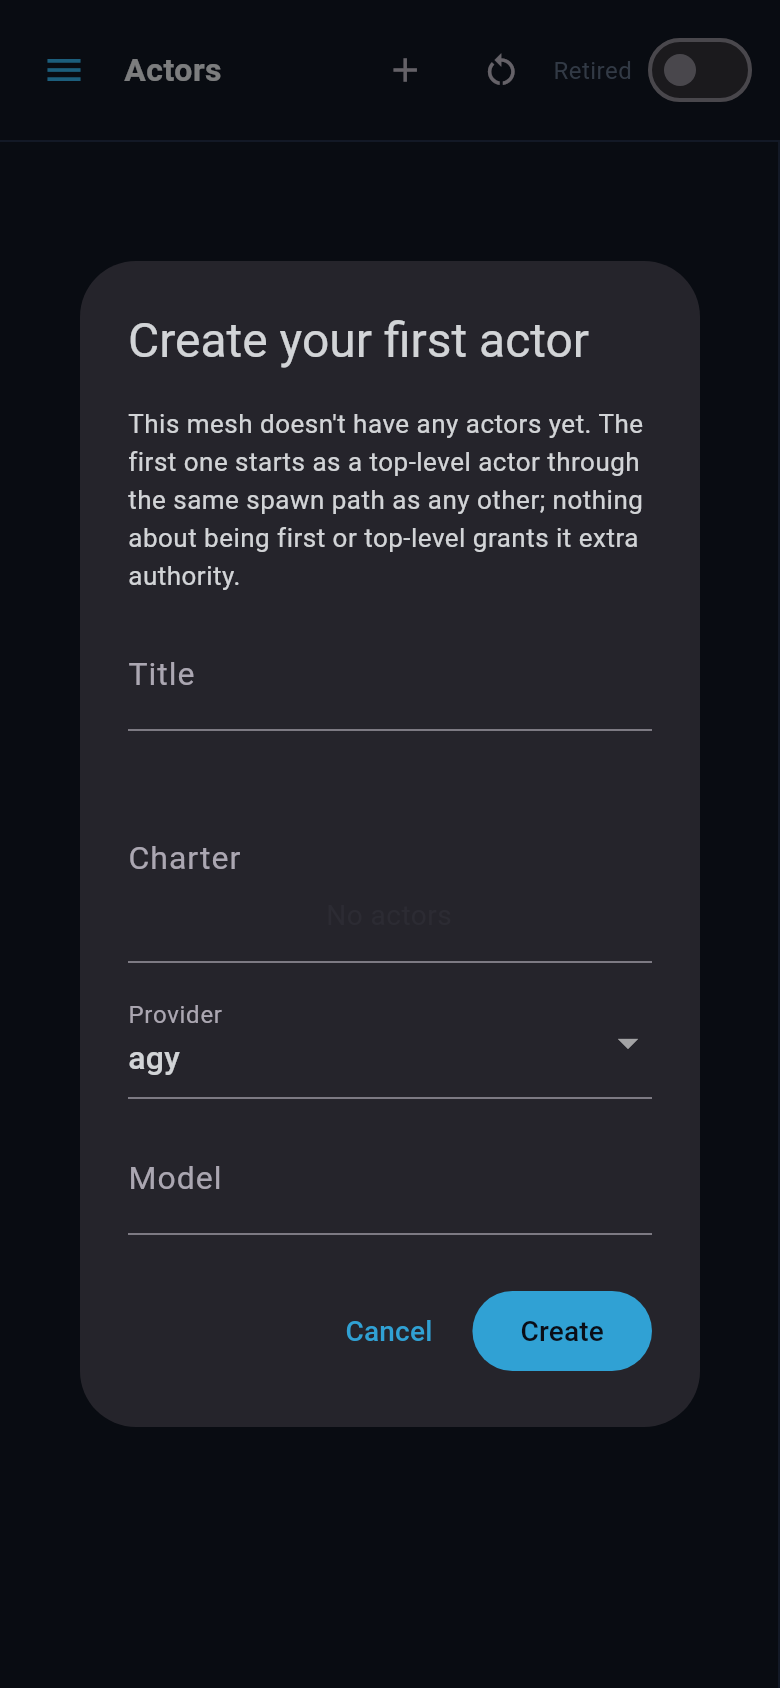
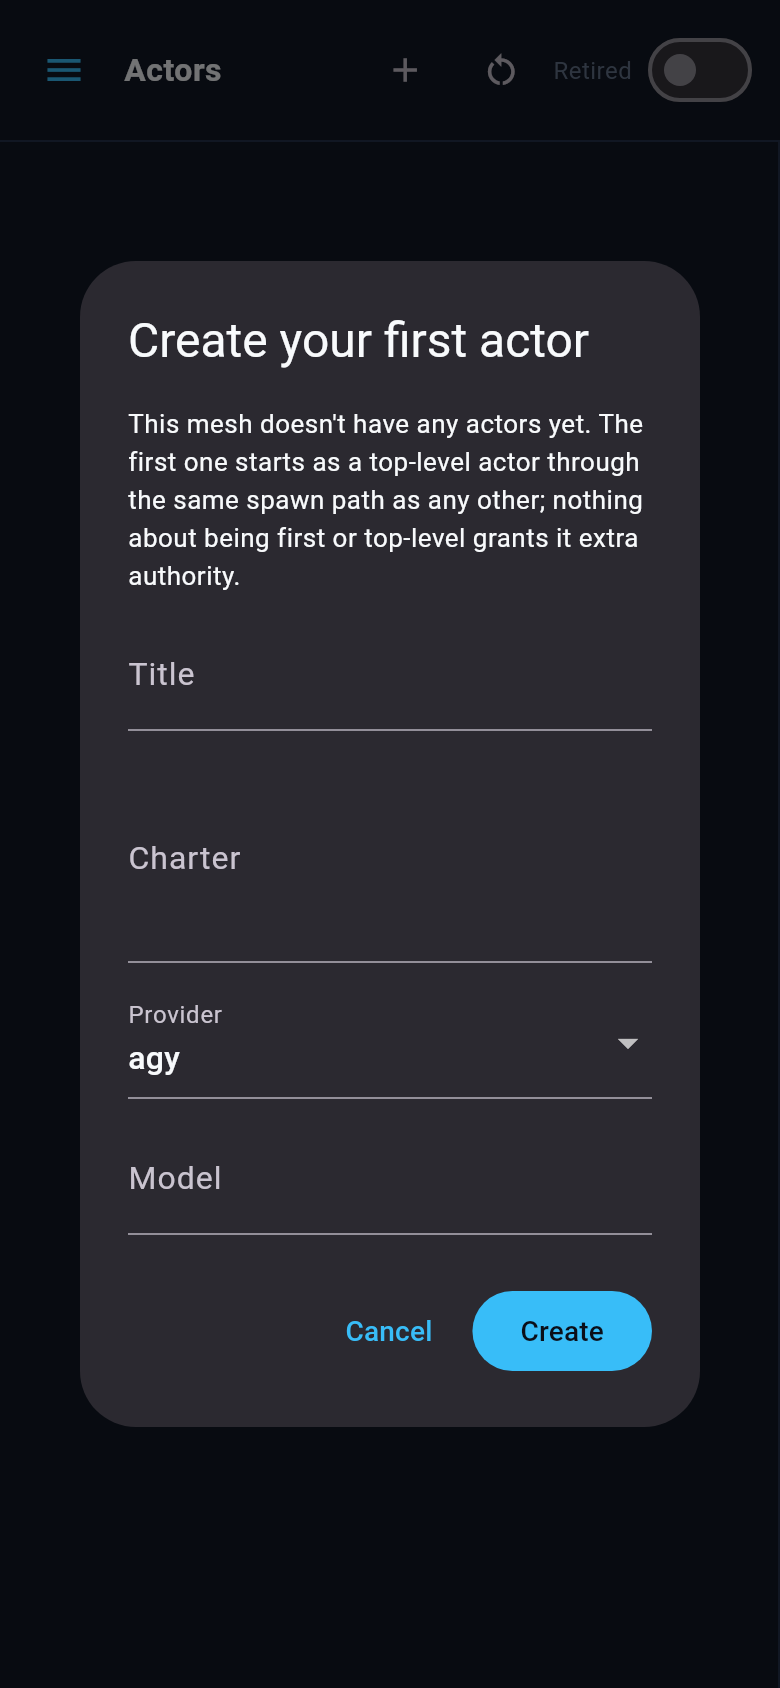
fix(dashboard): settle bootstrap modal entrance and clarify session dismissal (#1260)
- Settle dialog route transition before screenshot capture so the opaque
  dialog surface renders without background bleed-through.
- Clarify empty-mesh bootstrap dismissal: cancelling dismisses the modal
  for the session; drop the unneeded re-arm on non-empty actor snapshots.

diff --git a/packages/rusa/flutter_dashboard/test/first_actor_bootstrap_1260_test.dart b/packages/rusa/flutter_dashboard/test/first_actor_bootstrap_1260_test.dart
@@ -115,42 +115,29 @@ void main() {
     });
   });
 
-  testWidgets(
-    'cancelling dismisses the modal until actors exist, and an emptied mesh is offered again',
-    (tester) async {
-      await tester.runAsync(() async {
-        final api = FakeApi();
-        final store = await _startedStore(api);
+  testWidgets('cancelling dismisses the modal for the session', (
+    tester,
+  ) async {
+    await tester.runAsync(() async {
+      final api = FakeApi();
+      final store = await _startedStore(api);
 
-        await tester.pumpWidget(_harness(store));
-        await tester.pump(const Duration(milliseconds: 100));
-        expect(find.text('Create your first actor'), findsOneWidget);
+      await tester.pumpWidget(_harness(store));
+      await tester.pump(const Duration(milliseconds: 100));
+      expect(find.text('Create your first actor'), findsOneWidget);
 
-        await tester.tap(find.widgetWithText(TextButton, 'Cancel'));
-        await tester.pump(const Duration(milliseconds: 100));
-        expect(find.text('Create your first actor'), findsNothing);
+      await tester.tap(find.widgetWithText(TextButton, 'Cancel'));
+      await tester.pump(const Duration(milliseconds: 100));
+      expect(find.text('Create your first actor'), findsNothing);
 
-        // The mesh is still empty, but the dismissal holds: no re-offer.
-        await tester.pump(const Duration(milliseconds: 300));
-        expect(find.text('Create your first actor'), findsNothing);
-
-        // An actor appears (e.g. created elsewhere) and is then retired:
-        // the gate re-arms and the emptied mesh is offered again.
-        api.threadsResult = [makeThread('actor-1', created: 't0')];
-        await store.refreshThreads();
-        await tester.pump(const Duration(milliseconds: 100));
-        expect(find.text('Create your first actor'), findsNothing);
-
-        api.threadsResult = [];
-        await store.refreshThreads();
-        // The offer runs on the store's async stream delivery; give the real
-        // async zone a second turn before expecting the dialog.
-        await tester.pump(const Duration(milliseconds: 100));
-        await tester.pump(const Duration(milliseconds: 100));
-        expect(find.text('Create your first actor'), findsOneWidget);
-      });
-    },
-  );
+      // The mesh is still empty, and subsequent snapshots do not re-offer:
+      // dismissal holds for the session.
+      await store.refreshThreads();
+      await tester.pump(const Duration(milliseconds: 100));
+      await tester.pump(const Duration(milliseconds: 300));
+      expect(find.text('Create your first actor'), findsNothing);
+    });
+  });
 
   testWidgets('a retired-only mesh counts as non-empty and sees no modal', (
     tester,

diff --git a/packages/rusa/flutter_dashboard/lib/widgets/first_actor_bootstrap.dart b/packages/rusa/flutter_dashboard/lib/widgets/first_actor_bootstrap.dart
@@ -2,7 +2,6 @@ import 'dart:async';
 
 import 'package:flutter/widgets.dart';
 
-import '../models.dart';
 import '../store.dart';
 import 'actor_tree.dart';
 
@@ -22,8 +21,8 @@ const String kFirstActorDialogIntro =
 ///
 /// Once the first authoritative actor snapshot has landed and the mesh has no
 /// actors at all, offer the shared spawn dialog automatically. A non-empty
-/// mesh — including one whose only actors are retired — never sees it, and a
-/// mesh that empties after actors existed offers it again.
+/// mesh — including one whose only actors are retired — never sees it, and
+/// cancel dismisses for the session.
 ///
 /// Lives below [DashboardBody]'s views so every destination (Overview, Actors,
 /// …) gets the same behaviour, and only in the authenticated tree: the
@@ -56,20 +55,11 @@ class _FirstActorBootstrapState extends State<FirstActorBootstrap> {
     // post-frame callback because a dialog cannot be shown during build.
     _subs
       ..add(widget.store.actorsLoaded.listen((_) => _maybeOffer()))
-      ..add(widget.store.actorStates.listen(_onActors));
+      ..add(widget.store.actorStates.listen((_) => _maybeOffer()));
     WidgetsBinding.instance.addPostFrameCallback((_) {
       _framePainted = true;
       _maybeOffer();
     });
-  }
-
-  void _onActors(ActorStateSnapshot snapshot) {
-    // Any actor at all re-arms the gate: retiring the last actor later brings
-    // the modal back.
-    if (snapshot.actors.isNotEmpty && _dismissed) {
-      setState(() => _dismissed = false);
-    }
-    _maybeOffer();
   }
 
   Future<void> _maybeOffer() async {
@@ -87,9 +77,8 @@ class _FirstActorBootstrapState extends State<FirstActorBootstrap> {
         submitLabel: 'Create',
       );
       // A dismissal — cancel, barrier tap, or a failed spawn already reported
-      // as a snackbar — does not nag again while the mesh stays empty. The
-      // tree's spawn control remains available, and the gate re-arms once any
-      // actor exists.
+      // as a snackbar — does not nag again; cancel dismisses for the session.
+      // The tree's spawn control remains available.
       if (!created && mounted) setState(() => _dismissed = true);
     } finally {
       _offering = false;

diff --git a/packages/rusa/flutter_dashboard/test/first_actor_bootstrap_1260_screenshot_test.dart b/packages/rusa/flutter_dashboard/test/first_actor_bootstrap_1260_screenshot_test.dart
@@ -76,8 +76,10 @@ void main() {
             ),
           ),
         );
+        // Allow the dialog route transition (entrance fade) to settle fully
+        // before capturing, so the opaque dialog surface is rendered.
         await tester.pump(const Duration(milliseconds: 100));
-        await tester.pump(const Duration(milliseconds: 100));
+        await tester.pump(const Duration(milliseconds: 500));
 
         // Empty mesh: the first-actor modal is up over the dashboard.
         expect(find.text('Create your first actor'), findsOneWidget);
